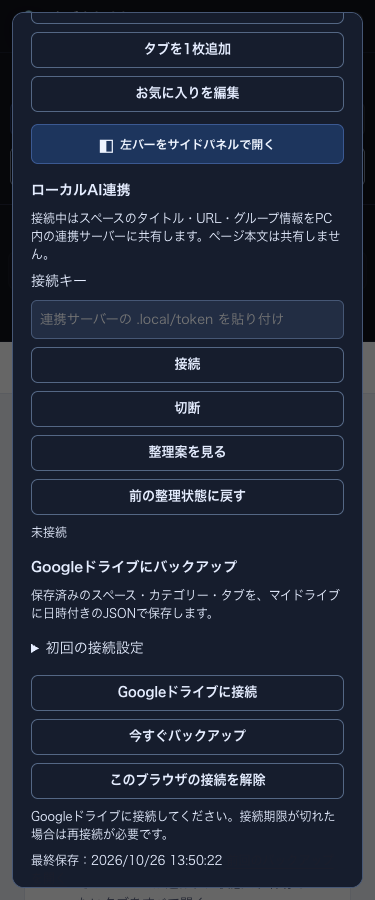
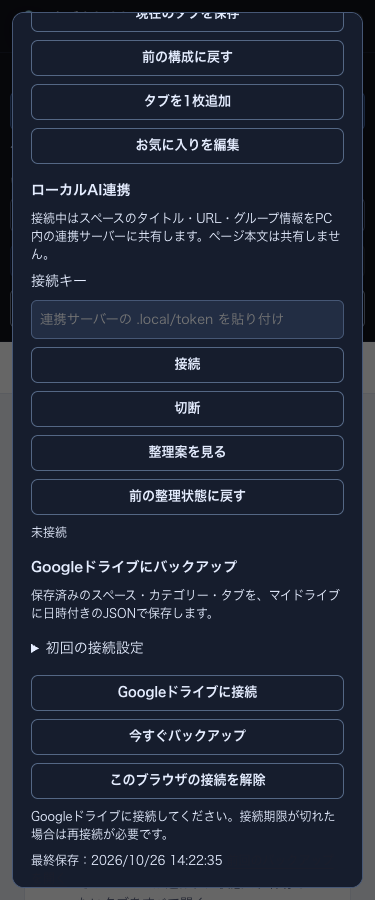
左パネルの起動ボタンを常時表示し、Chromeの配置が右のときは設定への案内を出す
- 「左バーをサイドパネルで開く」を設定ダイアログから左バー上部へ戻す（ページ閲覧中も表示する入口）
- Chromeのサイドパネル位置が右のとき、理由と「Chromeの設定を開く」ボタンを表示。設定から戻ると再判定
- 起動成功時に「別ページでも表示が続く／閉じたら拡張アイコンで再表示」と案内
- 「前の構成に戻す」が確認ダイアログ中の再クリックで二度走る穴を修正
- テスト基盤: Playwright の waitForFunction(async) は Promise 解決で素通りするため、
  ポーリングする UI.waitForAsync に14箇所を置き換え。全テストPASS

Changed region(s): [[0.0587, 0.0, 0.9387, 0.1867], [0.4693, 0.9333, 0.5867, 0.9644]]

diff --git a/extension/sidepanel-launcher.js b/extension/sidepanel-launcher.js
@@ -1,6 +1,22 @@
 'use strict';
 const panelStatus = document.getElementById('verticalTabsStatus');
 const leftOnlyMessage = 'Chromeのサイドパネルの位置を「左」にしてください。右側には開きません。';
+const openedMessage = '左サイドバーを開きました。別のページを開いても表示されたままです。閉じたときはツールバーの拡張アイコンで再表示できます。';
+// Chromeの配置が右のときの案内（dashboard.html の #panelPlacementHelp）
+const placementHelp = document.getElementById('panelPlacementHelp');
+const chromeSettingsButton = document.getElementById('openChromePanelSettings');
+if (chromeSettingsButton && chromeSettingsButton.addEventListener) {
+  chromeSettingsButton.addEventListener('click', () => {
+    try { chrome.tabs?.create?.({url:'chrome://settings/appearance'})?.catch?.(() => {}); } catch { /* 設定を開けない環境では何もしない */ }
+  });
+}
+async function refreshPlacementHelp() {
+  if (!placementHelp || !chrome.sidePanel?.getLayout) return;
+  try {
+    const {side} = await chrome.sidePanel.getLayout();
+    placementHelp.hidden = side === 'left';
+  } catch { /* 取得できないときは案内を変えない */ }
+}
 const leftPanelPorts = new Set();
 chrome.runtime.onConnect.addListener(port => {
   if (port.name !== `left-panel:${g_dashboardWindowId}`) return;
@@ -27,12 +43,15 @@ document.getElementById('openVerticalTabs').addEventListener('click', async () =
   }
   try {
     const layout = await chrome.sidePanel.getLayout();
-    if (layout.side !== 'left') { panelStatus.textContent = leftOnlyMessage; return; }
+    if (layout.side !== 'left') { panelStatus.textContent = leftOnlyMessage; if (placementHelp) placementHelp.hidden = false; return; }
     await chrome.sidePanel.open({windowId:ownerWindowId});
-    panelStatus.textContent = '左サイドバーを開きました。';
+    panelStatus.textContent = openedMessage;
+    if (placementHelp) placementHelp.hidden = true;
     await syncLeftSidebar();
   } catch { panelStatus.textContent = 'サイドバーを開けませんでした。もう一度お試しください。'; }
 });
 window.addEventListener('focus', syncLeftSidebar);
+window.addEventListener('focus', refreshPlacementHelp); // Chrome設定から戻ってきたら案内を更新
+void refreshPlacementHelp();
 setTimeout(syncLeftSidebar, 1000);
 void syncLeftSidebar();

diff --git a/extension/workspace-tools.js b/extension/workspace-tools.js
@@ -48,6 +48,9 @@ const WorkspaceTools = (() => {
   }
   restore.addEventListener('click',async()=>{
     if (busy) return;
+    // 確認ダイアログ中の再クリックで復元が二度走らないよう、先に多重実行を止める
+    busy=true; restore.disabled=true;
+    try {
     if (!await DashboardDialogs.confirm('前のタブ構成に戻します。現在の構成も履歴に残します。ページ内の未送信の入力内容は復元できません。')) return;
     await navigator.locks.request('pwm-space-switch',async()=>{
       busy=true; g_isSwitching=true; restore.disabled=true;
@@ -74,8 +77,9 @@ const WorkspaceTools = (() => {
         setActiveSpaceId(data,data.spaces.some(s=>s.id===history.spaceId)?history.spaceId:null); await saveData(data);
         await renderAll();showMessage('前のタブ構成に戻しました。','success');
       }catch(error){console.error(error);showMessage('復元に失敗しました。履歴を確認して再度お試しください。','error');}
-      finally{busy=false;g_isSwitching=false;schedule();}
+      finally{g_isSwitching=false;}
     });
+    } finally { busy=false; schedule(); }
   });
   const originalSave = saveCurrentTabsToSpace;
   saveCurrentTabsToSpace = async function(id) {

diff --git a/extension/dashboard.html b/extension/dashboard.html
@@ -14,6 +14,10 @@
         <div class="sidebar-launcher">
           <button id="openVerticalTabs" class="sidebar-panel-launch" type="button" aria-label="左バーをサイドパネルで開く" title="左バーをサイドパネルで開く（Chromeの配置設定は左）"><span class="sidebar-panel-icon" aria-hidden="true">◧</span><span class="sidebar-panel-label">左バーをサイドパネルで開く</span></button>
           <p id="verticalTabsStatus" class="sidebar-launch-status" role="status" aria-live="polite"></p>
+          <div id="panelPlacementHelp" class="sidebar-launch-help" hidden>
+            <p>ページ閲覧中も左に出しっぱなしにするには、Chromeの「サイドパネルの位置」を「左」にしてから上のボタンを押してください。</p>
+            <button id="openChromePanelSettings" type="button" class="btn btn--ghost">Chromeの設定を開く</button>
+          </div>
         </div>
 
 

diff --git a/extension/compact-navigation.js b/extension/compact-navigation.js
@@ -7,7 +7,7 @@
   const tools=document.querySelector('.workspace-tools');
   for(const item of tools.querySelectorAll(':scope > button'))actions.append(item);
   dialog.append(heading,actions);
-  const launcher=document.querySelector('.sidebar-launcher');if(launcher)dialog.append(launcher);
+  // 「左バーをサイドパネルで開く」はページ閲覧中の表示への入口なので、設定に隠さず左バー上部に残す。
   // 保存状態（変更あり/保存済み）は設定に隠さず常に見える場所に置く:
   // ダッシュボードはメインヘッダーの保存ボタン横、サイドパネルは検索欄の下にそのまま残す。
   const status=document.getElementById('workspaceSaveStatus');

diff --git a/extension/dashboard.css b/extension/dashboard.css
@@ -2253,3 +2253,9 @@ body.sidebar-collapsed .sidebar-settings { min-width:32px;width:32px;padding:0; 
     grid-template-columns: 1fr;
   }
 }
+
+/* サイドパネルの配置が右のときの案内 */
+.sidebar-launch-help { color:#d1def5; font-size:12px; line-height:1.5; padding-top:6px; overflow-wrap:anywhere; }
+.sidebar-launch-help p { margin:0 0 6px; }
+.sidebar-launch-help .btn { width:100%; color:#e5edff; border-color:#46516d; white-space:normal; }
+body.sidebar-collapsed .sidebar-launch-help { display:none; }
